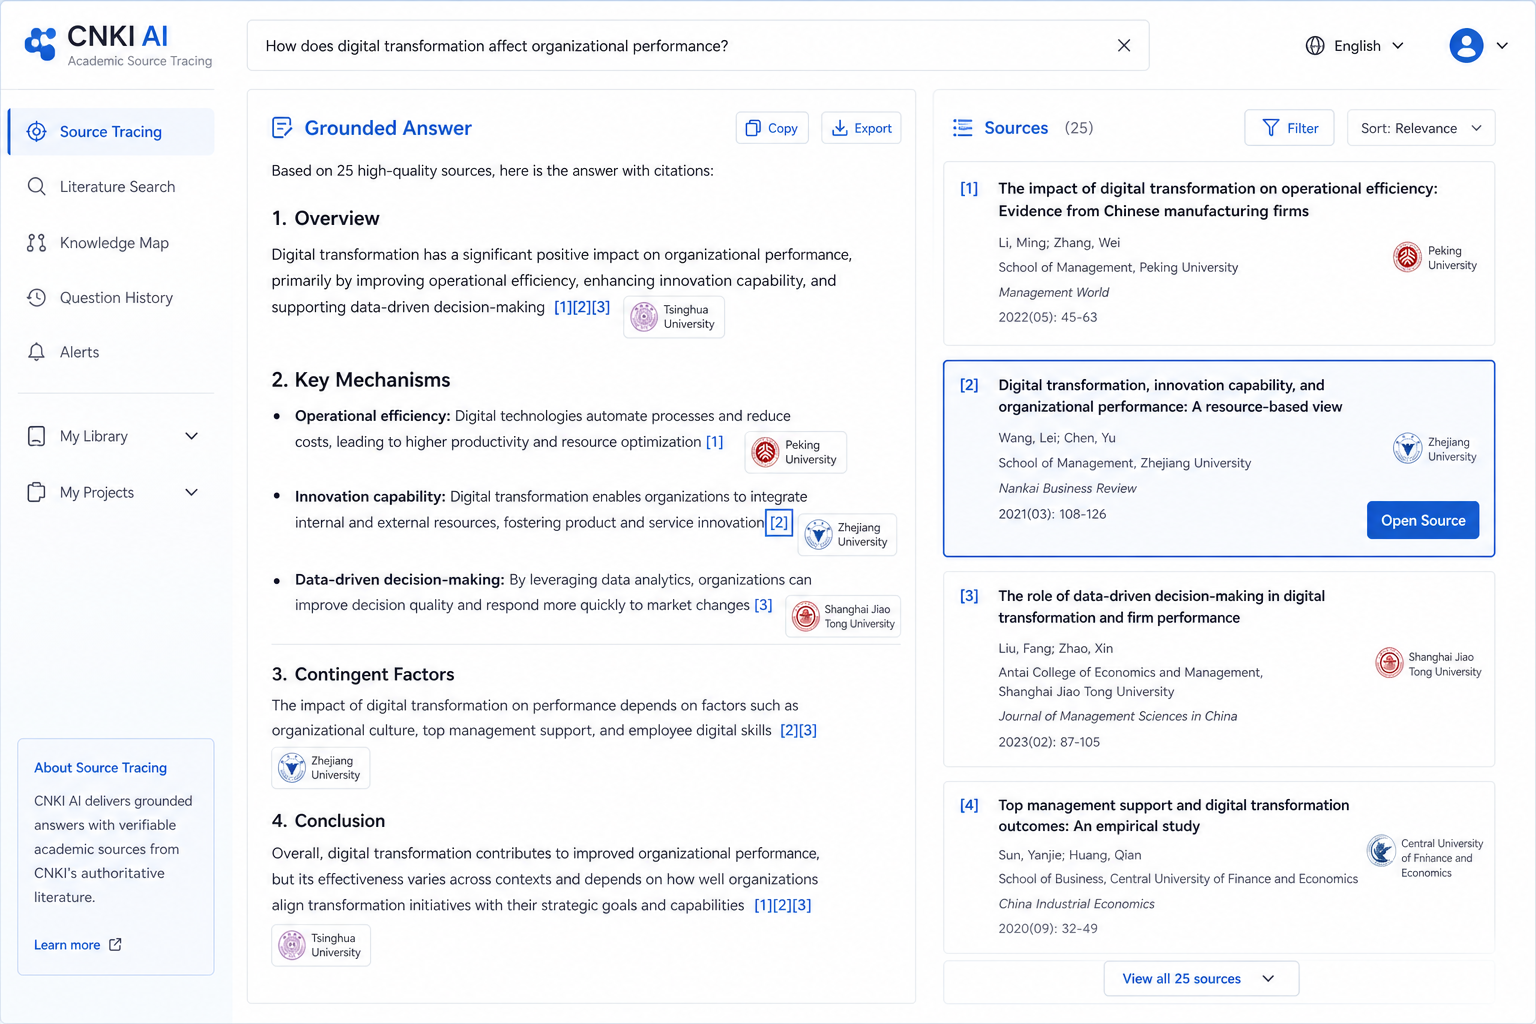
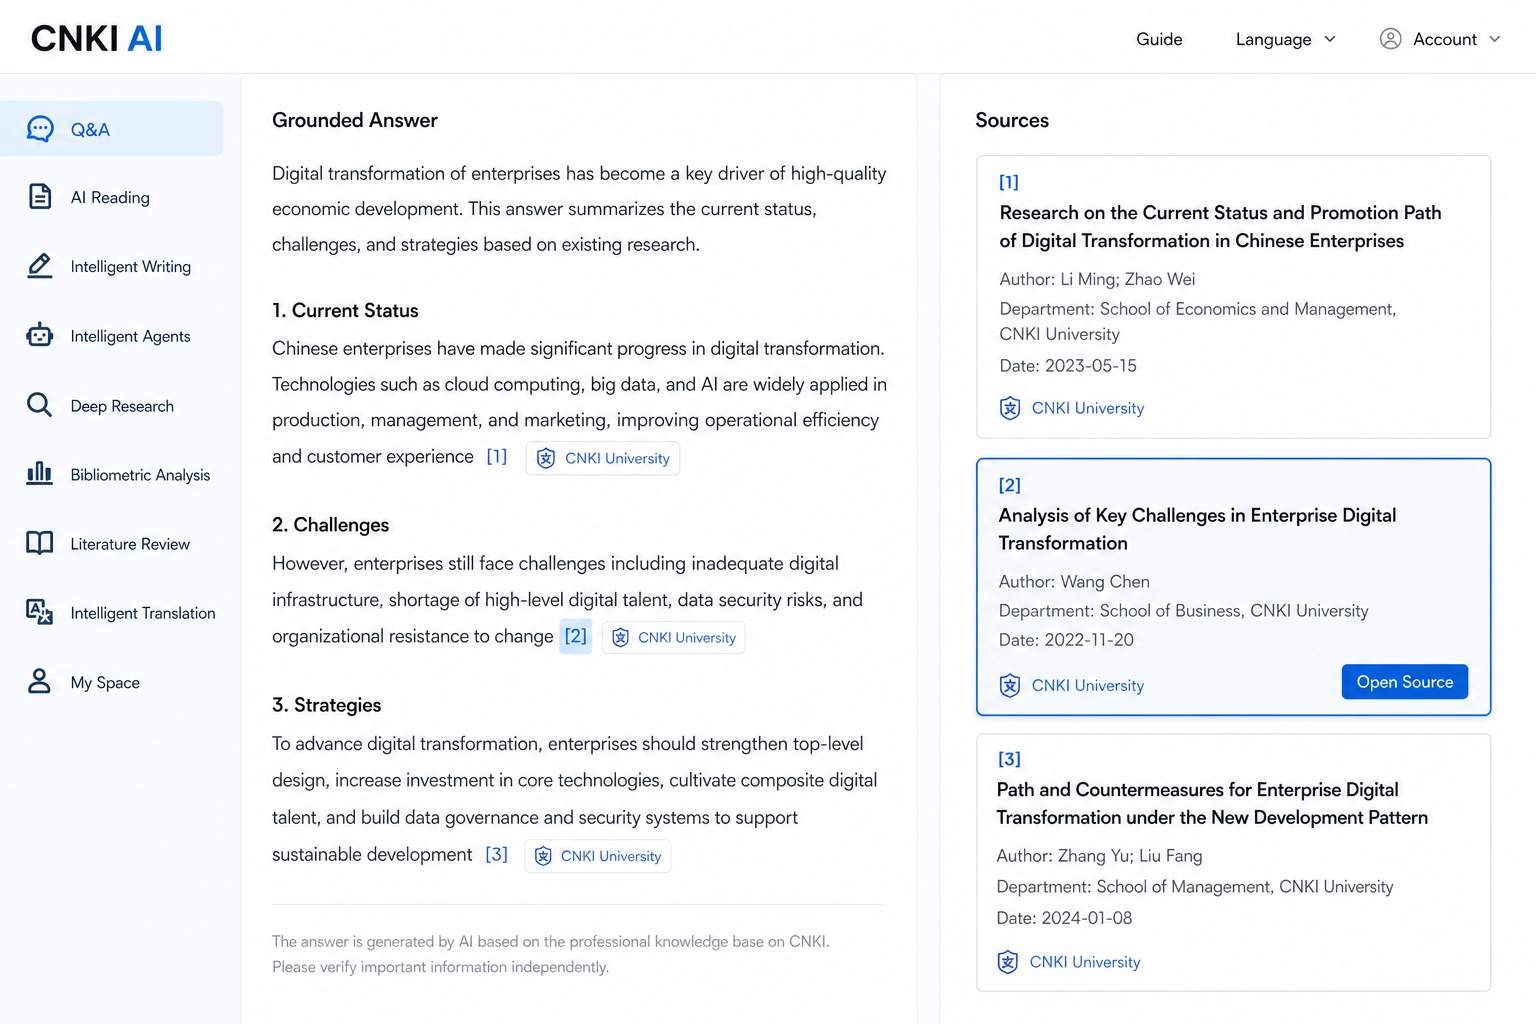
Unify prototype chrome and CNKI University examples
Standardize logo (CNKI black + AI blue), header (Guide/Language/Account),
and left nav across all screens. Use CNKI University fictional data;
limit source badges to CNKI University; make Save to My Dashboard prominent.

diff --git a/prototypes/index.html b/prototypes/index.html
@@ -137,7 +137,7 @@
   <div class="wrap">
     <header>
       <h1>CNKI AI Personalized Prototypes</h1>
-      <p>White-and-blue, international-style mockups for five campus personalization features—from identity linking and source-scoped answers to dual-column tracing, entity guidance, and AI reading.</p>
+      <p>White-and-blue mockups with unified chrome: logo <strong>CNKI</strong><span style="color:#2f6fed">AI</span>, header Guide / Language / Account, shared left nav, and fictional <strong>CNKI University</strong> data.</p>
       <nav>
         <a href="#req1">1. Identity &amp; Dashboard</a>
         <a href="#req2">2. Source Settings</a>
@@ -163,7 +163,7 @@
         </figure>
         <figure>
           <img src="images/req1-school-dashboard.png" alt="School discovery dashboard" />
-          <figcaption><strong>1-2</strong> School Discovery Dashboard with IP auto-link notice.</figcaption>
+          <figcaption><strong>1-2</strong> CNKI University Discovery Dashboard with IP auto-link notice.</figcaption>
         </figure>
       </div>
     </section>
@@ -197,7 +197,7 @@
       <div class="gallery">
         <figure>
           <img src="images/req3-dual-column-trace.png" alt="Dual-column source tracing" />
-          <figcaption><strong>3-1</strong> Grounded Answer + Sources, with citation [2] linked.</figcaption>
+          <figcaption><strong>3-1</strong> Grounded Answer + Sources; citations keep [1][2], school badge only for CNKI University.</figcaption>
         </figure>
         <figure>
           <img src="images/req3-pdf-source-highlight.png" alt="Exact PDF source highlight" />
@@ -238,7 +238,7 @@
       <div class="gallery">
         <figure>
           <img src="images/req5-ai-companion-reading.png" alt="AI reading companion" />
-          <figcaption><strong>5-1</strong> Reading Assistant with select-to-ask and AI Summary.</figcaption>
+          <figcaption><strong>5-1</strong> Reading Assistant with prominent Save to My Dashboard CTA.</figcaption>
         </figure>
       </div>
     </section>

diff --git a/prototypes/README.md b/prototypes/README.md
@@ -1,6 +1,13 @@
 # CNKI AI Personalized Prototypes
 
-High-fidelity UI mockups for five campus personalization features. Design system: white/blue international style, light nav/header (no dark chrome), concise English copy.
+High-fidelity UI mockups for five campus personalization features.
+
+Design system:
+- Logo: **CNKI** (black) + **AI** (blue)
+- Header (right): Guide · Language · Account
+- Left nav: Q&A · AI Reading · Intelligent Writing · Intelligent Agents · Deep Research · Bibliometric Analysis · Literature Review · Intelligent Translation · My Space
+- Institution example: **CNKI University** (fictional data)
+- Style: white/blue, light chrome, concise English
 
 ## Preview
 
